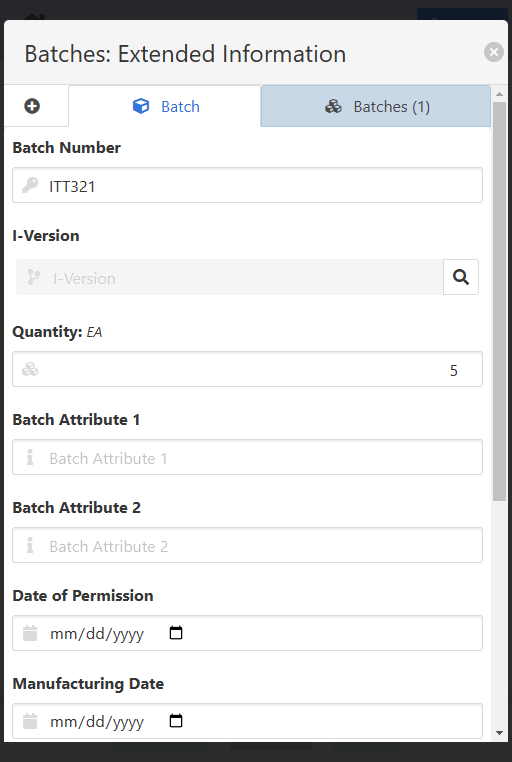
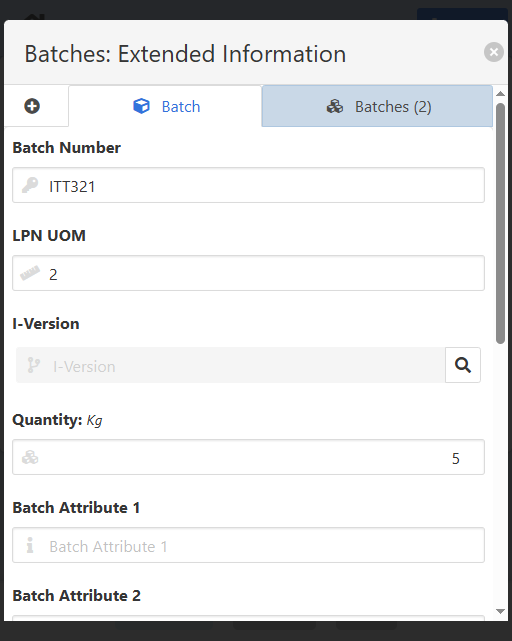
Update Receive with the LPN implementation

diff --git a/docs/apps/receive.md b/docs/apps/receive.md
@@ -603,13 +603,15 @@ If you want to add batches/serial numbers, click the <IIcon icon="pepicons-pop:d
 
 On this screen you will be able to **add/modify** batches/serial numbers.
 
-The first thing you will see is the **Batch** tab, giving you information for the batch selected, if any. You can modify the fields on this tab, and that will be reflected once you are done.
+The first thing you will see is the **Batch** tab, giving you information for the batch selected, if any. 
+
+You can modify the fields on this tab, and that will be reflected once you are done.
+
+Set the **Batch Number**, the **LPN UOM** (number of containers that will be used for handling the items), the **Quantity** and you are good to go.
 
 ![Batches: Extended Information search modal, with the Batch tab selected](./img-receive/batch_extended_information_batch.png)
 
 If you want to add a new batch, click the <IIcon icon="subway:add" width="17" height="17" />  button to use the **Batch** tab as a form.
-
-Click the <IIcon icon="iconamoon:search-bold" width="17" height="17" /> button on the fields to open the search modals. You have the **Batch/Serial Number** and **I-Version** search modals.
 
 ![Batches: Extended Information search modal, after clicking the plus button](./img-receive/batch_extended_information_batch2.png)
 
@@ -627,13 +629,108 @@ Once you have everything that you need, click the <IIcon icon="zondicons:close-s
 
 </CustomDetails>
 
-Next up is the **Quantity**. Set it to the value you see fit.
+Next up is the **Quantity**. Set it to the value you see fit, as long as you didn't use the extended modal, otherwise, the quantity will already be set.
 
-Once you are done, click **Save** at the bottom to create the grpo and to open the **Label Printing Modal**.
+Once you are done, click **Save** at the bottom to open the **UOM Quantity** modal.
+
+<CustomDetails summary="UOM Quantity Modal">
+
+On this modal you need to set the number of containers that will be used for transporting the item with the quantity you selected.
+
+![UoM quantity modal](./img-receive/uom_quantity_modal.png)
+
+Once you are done, click **Ok** to generate the grpo and to go to the [Choice: Assign to LPN](./receive.md#choice-assign-to-lpn) screen.
+
+</CustomDetails>
+
+### Choice: Assign to LPN
+
+On this screen you need to choose if you want to assign the stock to an LPN or not.
+
+![Choice assign to lpn screen](./img-receive/choice_assign_lpn_screen.png)
+
+If you select **Yes** and click **Next**, the **Assign License Plate** modal will open.
+
+<CustomDetails summary="Assign License Plate Modal">
+
+On this modal you need to choose between creating new LPNs for the process and using existing LPNs.
+
+![Assign license plate add modal](./img-receive/assign_lp_modal.png)
+
+If you click **Create New**, the **Add License Plate: Add** modal will open.
+
+<CustomDetails summary="Add License Plate: Add Modal">
+
+On this modal you can create LPNs.
+
+![Add license plate modal](./img-receive/add_lp_add_modal.png)
+
+First you need to select the type of LPN you are going to create: **Permanent Transfer** (PF-XXXX), **Permanent Transport** (PP-XXXX), **Temporary** (T-XXXX) and **External** (E-XXXX).
+
+Next, you need to set the **Auto N°** field to the number of LPNs you want to create. All LPNs are **auto-incremental**.
+
+Once you are done, click the <IIcon icon="ph:plus-fill" width="17" height="17" /> button to go to the **License Plates Summary** section.
+
+![license plates summary modal](./img-receive/lp_summary_modal.png)
+
+You can **add** more LPNs by clicking the **Add License Plate** button.
+
+You can **filter** the list of LPNs using the search box.
+
+You can **remove** any of the LPNs by clicking the <IIcon icon="ic:baseline-delete" width="17" height="17" /> button on the rightmost column. Keep in mind that at this point no LPN has actually been created in the system.
+
+If you have everything that you need, click **Next** to actually create the LPNs in the system and to go to the [LPN Overview](./receive.md#lpn-overview) screen.
+
+</CustomDetails>
+
+If you click **Select Existing**. the **Add License Plate: Select** modal will open.
+
+<CustomDetails summary="Add License Plate: Select Modal">
+
+On this modal you can select already existing LPNs.
+
+![Add license plate select modal](./img-receive/add_lp_select_modal.png)
+
+Click the <IIcon icon='iconamoon:search-bold' width='17' height='17' /> button to open the **License Plate Search** modal.
+
+<CustomDetails summary="License Plate Search Modal">
+
+On this screen you need to select one of the **License Plates** listed.
+
+![License plate search modal](./img-receive/license_plate_search_modal.png)
+
+You can select any item by clicking on it, which will close the modal and take you back with that **License Plate** already set.
+
+You can filter the list of **License Plates** using the search box.
+
+If you want to close the modal without making any changes, click the <IIcon icon="zondicons:close-solid" width="17" height="17"/> button.
+</CustomDetails>
+
+After you select one of the license plates, you will see all the information related to it.
+
+![license plate info modal](./img-receive/lp_info_modal.png)
+
+If everything seems correct, click **Next** to go to the **License Plates Summary** section.
+
+![license plate summary modal](./img-receive/lp_summary_select_modal.png)
+
+You can **add** more LPNs by clicking the **Add License Plate** button.
+
+You can **filter** the list of LPNs using the search box.
+
+You can **unselect** any of the LPNs by clicking the  button on the rightmost column.
+
+If you have everything that you need, click **Next** to go to the [LPN: Overview](./receive.md#lpn-overview) screen.
+
+</CustomDetails>
+
+</CustomDetails>
+
+On the other hand, if you select **No**, the **Label Printing** modal will open.
 
 <CustomDetails summary="Label Printing Modal">
 
-The first thing you will be given is a choice: **Do you want to prin the labels?**
+The first thing you will be given is a choice: **Do you want to print the labels?**
 
 ![Printing choice modal](./img-receive/label_printing_choice_modal.png)
 
@@ -653,13 +750,115 @@ If you select **Per Batch** and click **Print**, a pdf will be created with the 
 
 If you select **Per Serial** and click **Print**, a single-page pdf will be created with the item and serial number information. After that, you will be taken back to the [Line Selection](./receive.md#line-selection) screen.
 
-If you select **Per Unit/Pack** and click **Print**, you will be taken to the [Print: Box Distribution Setup](./receive.md#print-box-distribution-setup) screen.
+If you select **Per Unit/Pack** and click **Print**, you will be taken to the [Print: Box Distribution Setup](./receive.md#print-box-distribution-setup) screen (for serial numbers) or to the [Print: Batch List](./receive.md#print-batch-list) screen (for batches).
 
 :::note[INFO]
-For now, you can find all PDFs in the project folder inside the /PDF/PO/ directory.
+You can find all PDFs in the project folder inside the /PDF/PO/ directory.
 :::
 
 </CustomDetails>
+
+### LPN: Overview
+
+On this screen you can see the list of LPNs you created.
+
+![lpn overview screen](./img-receive/lpn_overview_screen.png)
+
+<CustomDetails summary="Table Reference">
+  | Column | Description |
+  | --- | --- |
+  | License | License Plate. |
+  | Details | Action button to go to the batch selection screen. |
+</CustomDetails>
+
+If you are working with a **batch-managed** item, click the <IIcon icon="pepicons-pop:dots-x" width="17" height="17" /> button on any of the LPNs to go to the [LPN: Batch Selection](./receive.md#lpn-batch-selection) screen.
+
+If you are working with a **serial-managed** item, click the <IIcon icon="pepicons-pop:dots-x" width="17" height="17" /> button on any of the LPNs to go to the [LPN: Assign Serials](./receive.md#lpn-assign-serials) screen.
+
+Once you are done, click **Next** at the bottom to save the changes and open the **Label Printing** modal.
+
+<CustomDetails summary="Label Printing Modal">
+
+The first thing you will be given is a choice: **Do you want to print the labels?**
+
+![Printing choice modal](./img-receive/label_printing_choice_lpn_modal.png)
+
+If you click **No**, you will be taken back to the [Line Selection](./receive.md#line-selection) screen.
+
+If you click **Yes, print**, you will be given another choice: **What type of label do you want to print?**
+
+![Label type printing modal](./img-receive/label_type_printing_lpn_modal.png)
+
+If you click **Cancel**, you will be taken back to the [Line Selection](./receive.md#line-selection) screen.
+
+Otherwise, you have four options: **Per Line**, **Per Unit/Pack**, **Per Batch** and **Per Serial**. The last two options are <u>mutually exclusive</u> and will depend on if the item is managed by batches or serial number.
+
+If you select **Per Line** and click **Print**, a single-page pdf will be created with the line information. After that, you will be taken back to the [Line Selection](./receive.md#line-selection) screen.
+
+If you select **Per Batch** and click **Print**, a pdf will be created with the item and batch information. One page for each batch. After that, you will be taken back to the [Line Selection](./receive.md#line-selection) screen.
+
+If you select **Per Serial** and click **Print**, a single-page pdf will be created with the item and serial number information. After that, you will be taken back to the [Line Selection](./receive.md#line-selection) screen.
+
+If you select **Per Unit/Pack** and click **Print**, a number of pdfs equal to the number of boxes with all the boxes information will be created. After that, you will be taken back to the [Line Selection](./receive.md#line-selection) screen.
+
+:::note[INFO]
+You can find all PDFs in the project folder inside the /PDF/PO/ directory.
+:::
+
+</CustomDetails>
+
+### LPN: Batch Selection
+
+On this screen you can see the list of batches that you can work with.
+
+At the top you will see the LPN you are working with.
+
+![LPN: Batch Selection](./img-receive/lpn_batch_selection_screen.png)
+
+<CustomDetails summary="Table Reference">
+  | Column | Description |
+  | --- | --- |
+  | Batch | ID of the batch. |
+  | Item | ID of the item. |
+  | Quantity | Quantity. |
+  | Warehouse | Warehouse. |
+  | Details | Action button to go to the screen for Selecting containers. |
+</CustomDetails>
+
+Click the <IIcon icon="pepicons-pop:dots-x" width="17" height="17" /> button on any of the batches to go to the [LPN: Box Distribution](./receive.md#lpn-box-distribution) screen.
+
+### LPN: Box Distribution
+
+On this screen you can see the list of containers that you specified before with the total quantity evenly divided into all the containers. The total quantity is distributed automatically and cannot be changed.
+
+At the top you will see the batch you are working with.
+
+![LPN: Box Distribution screen](./img-receive/lpn_box_distribution_screen.png)
+
+<CustomDetails summary="Table Reference">
+  | Column | Description |
+  | --- | --- |
+  | Select | Action button for selecting a container. |
+  | Box # | ID of the box. |
+  | Quantity | Quantity currently assigned to the container. |
+  | Status | Shows if the container is available or if it has alredy been assigned to an LPN. |
+</CustomDetails>
+
+Select containers by clicking the <IIcon icon="line-md:square" width="17" height="17"/> button on the leftmost column.
+
+Once you are done, click **Next** at the bottom to save the changes, assign the containers to the current LPN and to go back to the [LPN: Overview](./receive.md#lpn-overview) screen.
+
+### LPN: Assign Serials
+
+On this screen you can see the list of serial numbers that you can work with.
+
+At the top you will see the LPN you are working with.
+
+![LPN: Assign Serials](./img-receive/lpn_assign_serials.png)
+
+You need to assign serial numbers to the LPN. Click the <IIcon icon="line-md:square" width="17" height="17"/> button on the leftmost column to select a serial number. It's only one container with quantity of one for each serial number.
+
+Once you are done, click **Next** to save the changes, assign the serial numbers to the LPN and to go back to the [LPN: Overview](./receive.md#lpn-overview) screen.
 
 ### Print: Box Distribution Setup
 
@@ -703,6 +902,43 @@ You can **filter** the list of serial numbers using the search box.
 Click the <IIcon icon="gg:check-r" width="17" height="17" /> button on any of the serial numbers to select them.
 
 Once youn are done, click **Save** at the bottom to save the changes and to go back to the [Print: Box Distribution Setup](./receive.md#print-box-distribution-setup) screen.
+
+### Print: Batch List
+
+On this screen you can see a summary of the batches you can work with.
+
+![print: batch list](./img-receive/print_batch_list_screen.png)
+
+<CustomDetails summary="Table Reference">
+  | Column | Description |
+  | --- | --- |
+  | Batch | ID of the batch. |
+  | Item | ID of the item. |
+  | Quantity | Quantity. |
+  | Warehouse | Warehouse. |
+  | Details | Action button to go to the screen for handling quantities by containers. |
+</CustomDetails>
+
+For changing the quantity per container and printing, click the <IIcon icon="pepicons-pop:dots-x" width="17" height="17"/> button on the rightmost column to go to the [Print: Batch Distribution](./receive.md#print-batch-distribution) screen.
+
+### Print: Batch Distribution
+
+On this screen you can modify the quantity that each container is going to hold. You can also print the labels by unit/pack.
+
+On top of the containers table you can see the batch you are working with.
+
+![print: batch distribution screen](./img-receive/print_batch_distribution_screen.png)
+
+<CustomDetails summary="Table Reference">
+  | Column | Description |
+  | --- | --- |
+  | Box # | ID of the box. |
+  | Quantity | Quantity being handled by that specific container. |
+</CustomDetails>
+
+Set the quantities as you see fit, making sure to use the total quantity.
+
+Once you are done, click **Print** at the bottom to print the labels and to go to the [Line Selection](./receive.md#line-selection) screen.
 
 ### Return: Line Summary
 
